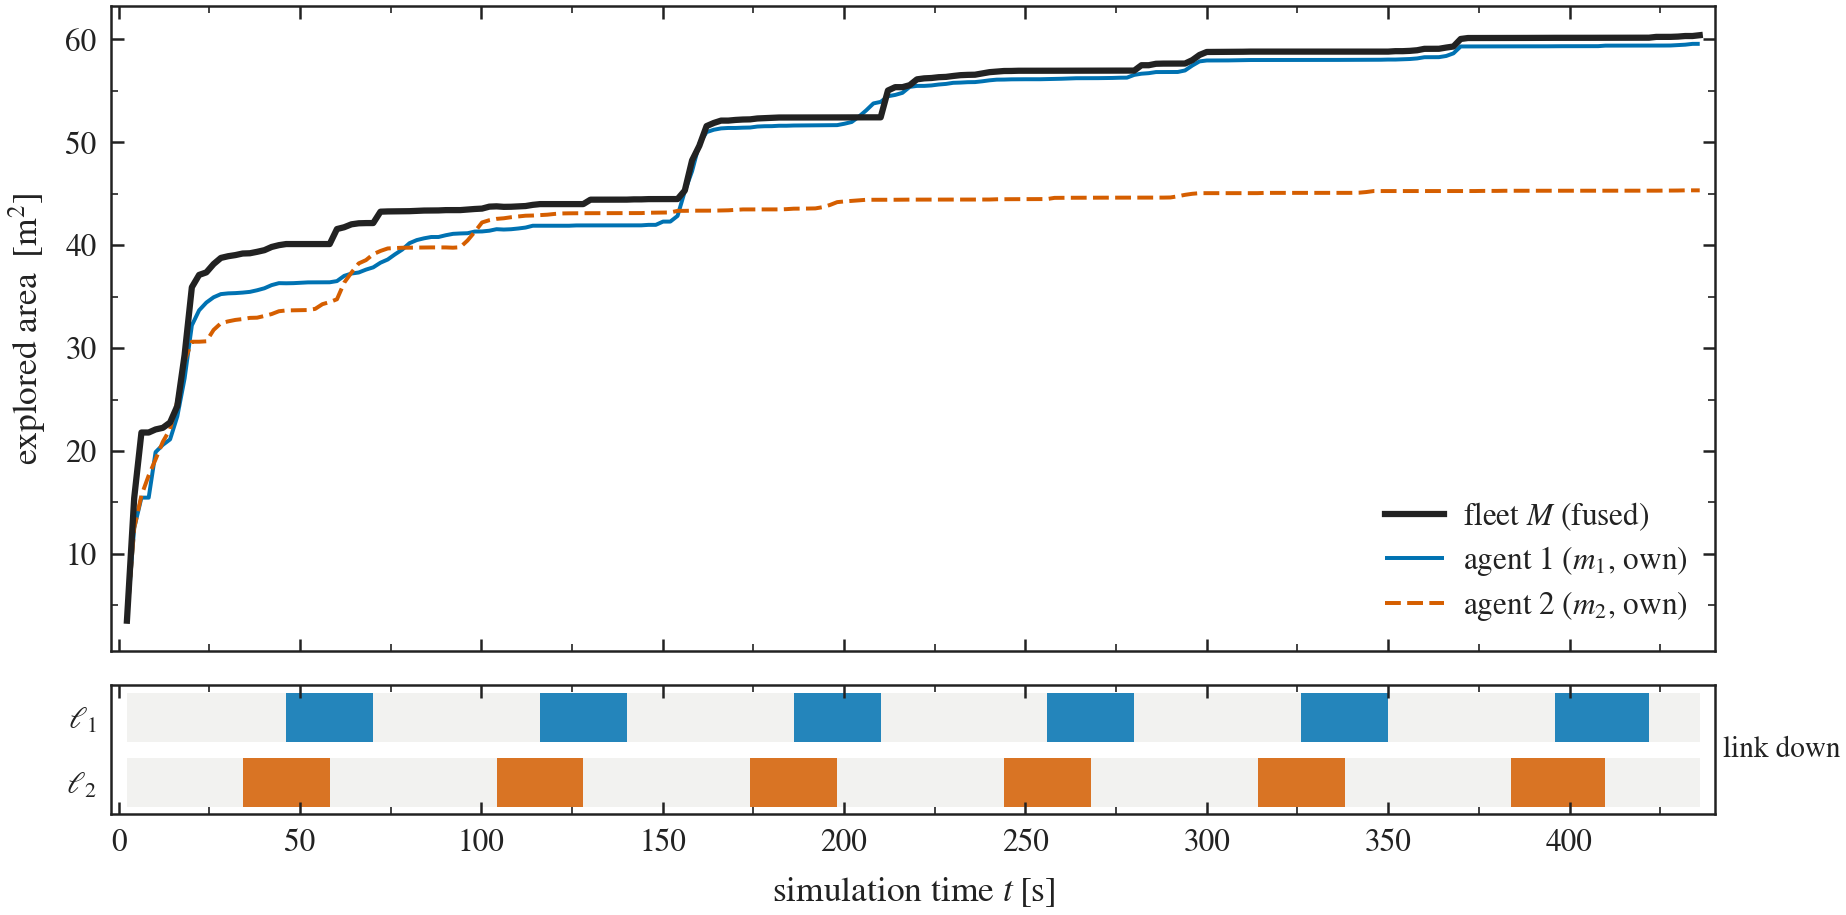
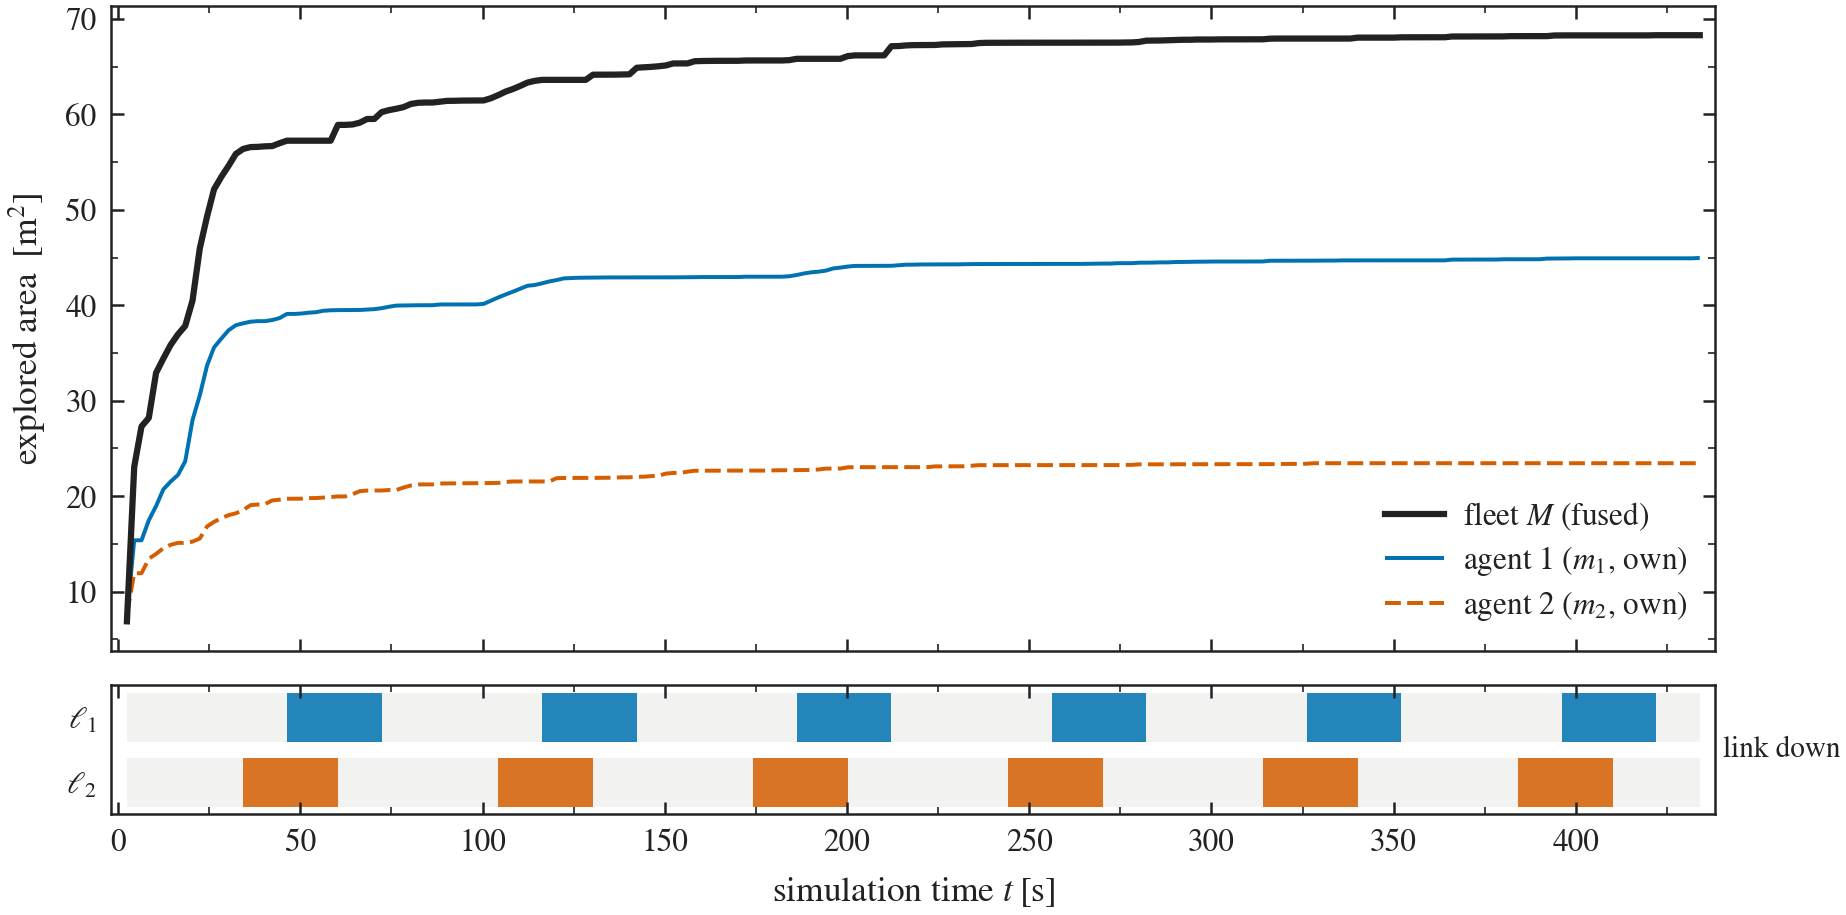
Occupancy grid in map with mutliple agents

diff --git a/Planning/MultiRobot_ws/README.md b/Planning/MultiRobot_ws/README.md
@@ -107,9 +107,19 @@ batch runs and interactive sessions.
 Every agent runs an independent asynchronous pose-graph SLAM instance
 (`slam_toolbox`, a Karto-derived correlative scan matcher with a sparse
 pose-graph back end solved by Ceres). Nodes are inserted on a travelled distance
-of $0.20$ m or a heading change of $0.20$ rad; loop closures are searched within
+of $0.12$ m or a heading change of $0.12$ rad; loop closures are searched within
 a $3.0$ m radius over chains of at least $10$ nodes. The published grid
 resolution is $\rho = 0.05$ m.
+
+The keyframe interval is shorter than the values usually quoted for this front
+end, and the choice was forced by measurement rather than preference. At
+$0.20$ m / $0.20$ rad the agent that happened to travel furthest in a run
+accumulated heading error faster than loop closure could absorb it, and its grid
+showed the characteristic smeared, doubled walls. Shortening the interval between
+constraints removes the failure at the cost of a larger graph to optimise.
+Tightening the loop-closure acceptance thresholds instead was tried first and
+made matters worse, by rejecting the legitimate closures that would have
+corrected the drift.
 
 Crucially, no agent consumes another agent's scans, poses or pose graph. Coupling
 occurs exclusively at the level of published occupancy grids, through the
@@ -286,26 +296,45 @@ propagates observations, it does not synthesise them.
 
 **Figure 3.** Explored area against simulation time. The heavy trace is the fused
 fleet map $M$; the thin traces are each agent's own map. The lower strip is the
-link process, one row per agent, with filled intervals marking $\ell_i = 0$. Area
-is reported in square metres rather than as a fraction of the canvas, since the
-canvas grows with the map and fractions would not be comparable across time.
+link process, one row per agent, with filled intervals marking $\ell_i = 0$. Each
+agent spends $36\%$ of the run disconnected, the two duty cycles offset by
+$\delta$ so that the fleet passes through partially connected states.
 
 The quantity of interest is the vertical gap between the fused trace and each
 individual trace. It is the geometric measure of what an agent does *not* know
 but the fleet does — the epistemic asymmetry that motivates the modal treatment
-of the following iterations. During an outage the fused trace stops tracking the
-disconnected agent while that agent's own trace continues to climb, and the
-accumulated difference is recovered as a step at reconnection.
+of the following iterations. Here the two agents' final areas, $45.0$ and
+$23.5$ m², sum to almost exactly the fused $68.3$ m², so their coverage is very
+nearly disjoint and neither agent alone holds more than two thirds of what the
+fleet holds.
+
+Two caveats keep this figure honest. First, the gap shown is dominated by
+*complementarity* of the two explored regions, not by the outage dynamics: each
+agent's own coverage saturates within roughly the first $150$ s, after which the
+duty cycle continues but there is little new information left for an outage to
+delay. Distinguishing the two contributions requires a scenario in which
+exploration remains productive for the whole run, and is a matter for the
+comparative evaluation of OE4 rather than for this iteration. Second, area is
+reported in square metres rather than as a fraction of the canvas, since the
+canvas grows with the map and fractions would not be comparable across time.
 
 <a name="table-1"></a>
 
-**Table 1.** Explored area at the end of the run.
+**Table 1.** Explored area after $436$ s of simulation, two agents, $36\%$ link
+downtime each.
 
 | Quantity | Area (m²) | Share of fused map |
 |---|---|---|
-| Agent 1, own map | *see run output* | — |
-| Agent 2, own map | *see run output* | — |
-| Fused fleet map | *see run output* | 100 % |
+| Agent 1, own map $m_1$ | $45.0$ | $65.9\ \%$ |
+| Agent 2, own map $m_2$ | $23.5$ | $34.4\ \%$ |
+| Fused fleet map $M$ | $68.3$ | $100\ \%$ |
+
+The individual shares sum to $100.3\%$, i.e. the two agents overlap on only
+$0.2$ m² of the $68.3$ m² they jointly observed. With the agents deployed at
+opposite ends of the hall and no coordination between them beyond the geometry
+of the environment, the partition of the workspace is essentially incidental —
+which is precisely the sort of allocation a deliberative epistemic planner is
+meant to make deliberate rather than accidental.
 
 ---
 
